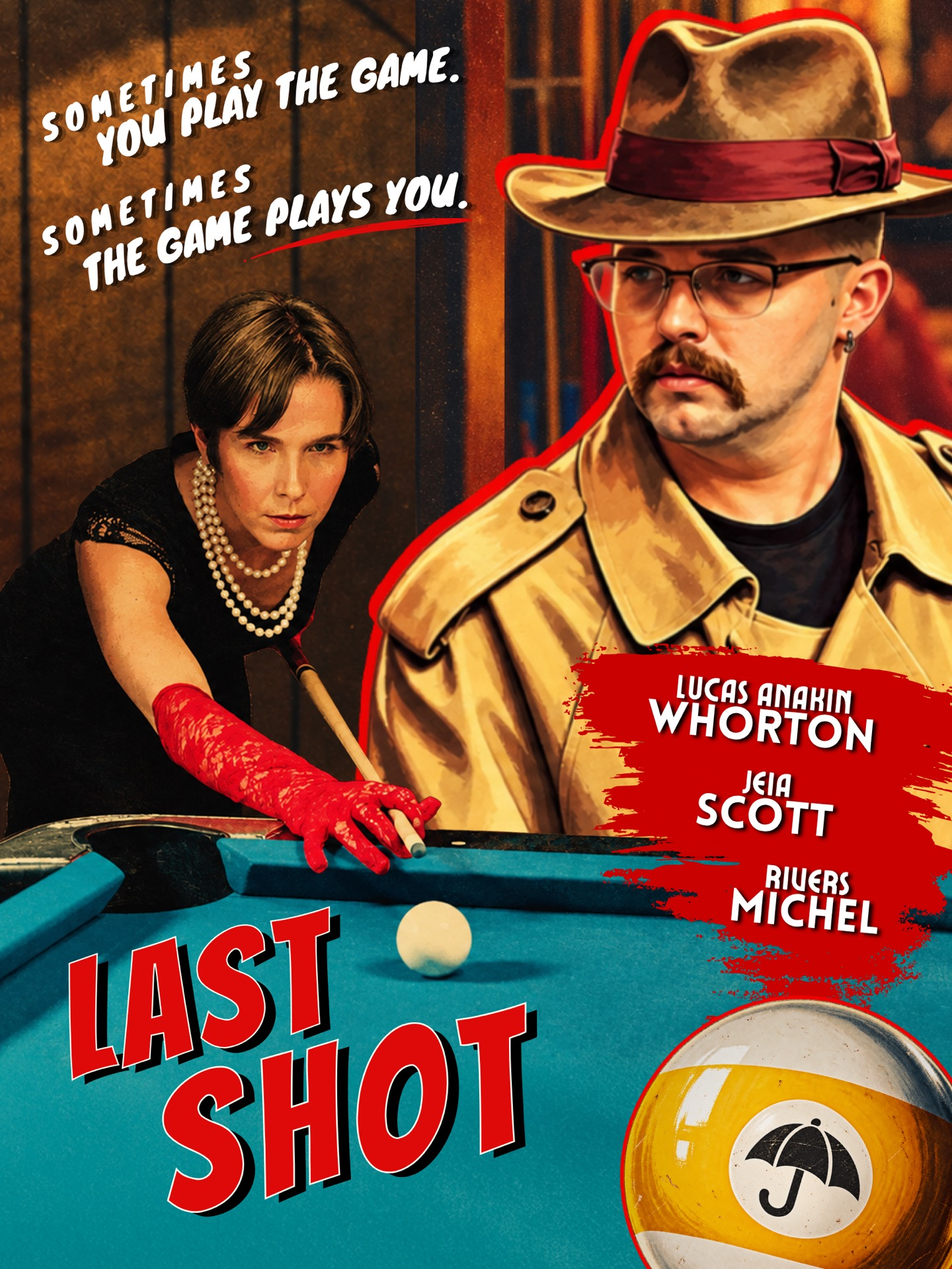
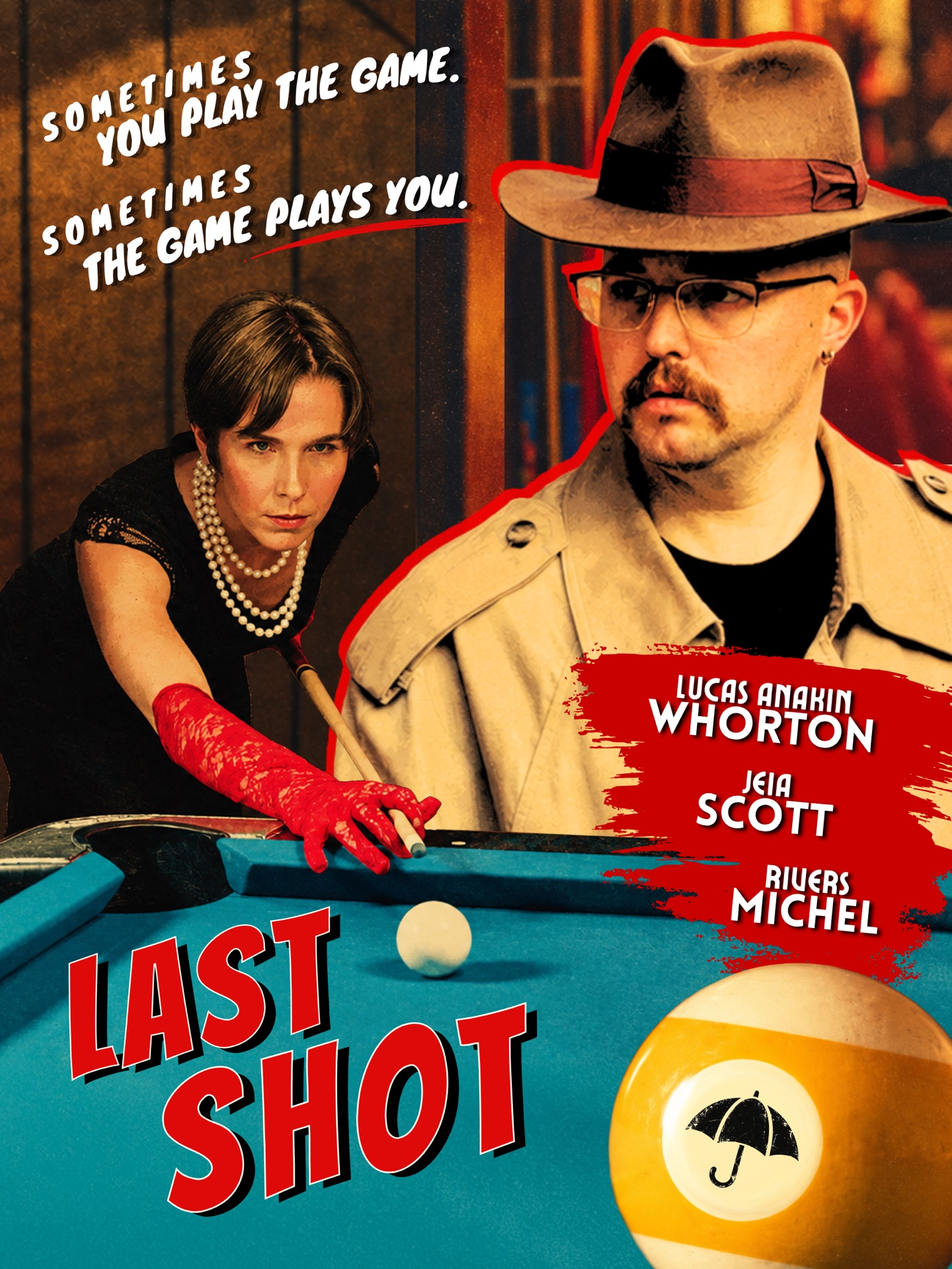
Publish Last Shot poster and BTS, plus corrected 2026 genres.

Changed region(s): [[0.3438, 0.0, 1.0, 0.6562], [0.625, 0.75, 1.0, 1.0], [0.9688, 0.5938, 1.0, 0.6875]]

diff --git a/content/films/2026-all-kinds-of-shoot-misguided-tours/index.md b/content/films/2026-all-kinds-of-shoot-misguided-tours/index.md
@@ -11,7 +11,7 @@ params:
   logline: "A cryptid comedy"
   synopsis: "Paranormal researchers go straight to the source. Or do they?"
   order: 3
-  genre: "Mockumentary OR Misunderstanding"
+  genre: "Mockumentary + Misunderstanding"
   galleries:
     poster:
       count: 1

diff --git a/content/films/2026-goon-squad-shifter/index.md b/content/films/2026-goon-squad-shifter/index.md
@@ -11,7 +11,7 @@ params:
   logline: "A look in the mirror"
   synopsis: "A wanted criminal breaks into an unknown persons house."
   order: 15
-  genre: "Thriller / Suspense OR Family Film"
+  genre: "Thriller / Suspense"
   warnings:
     - "Violence"
   galleries:

diff --git a/content/films/2026-no-umbrella-last-shot/index.md b/content/films/2026-no-umbrella-last-shot/index.md
@@ -16,6 +16,10 @@ params:
     - "Language"
   galleries:
     poster:
+      count: 2
+    bts:
+      count: 5
+    group:
       count: 1
     thumb:
       numbers: [6, 14, 22, 30, 33]
